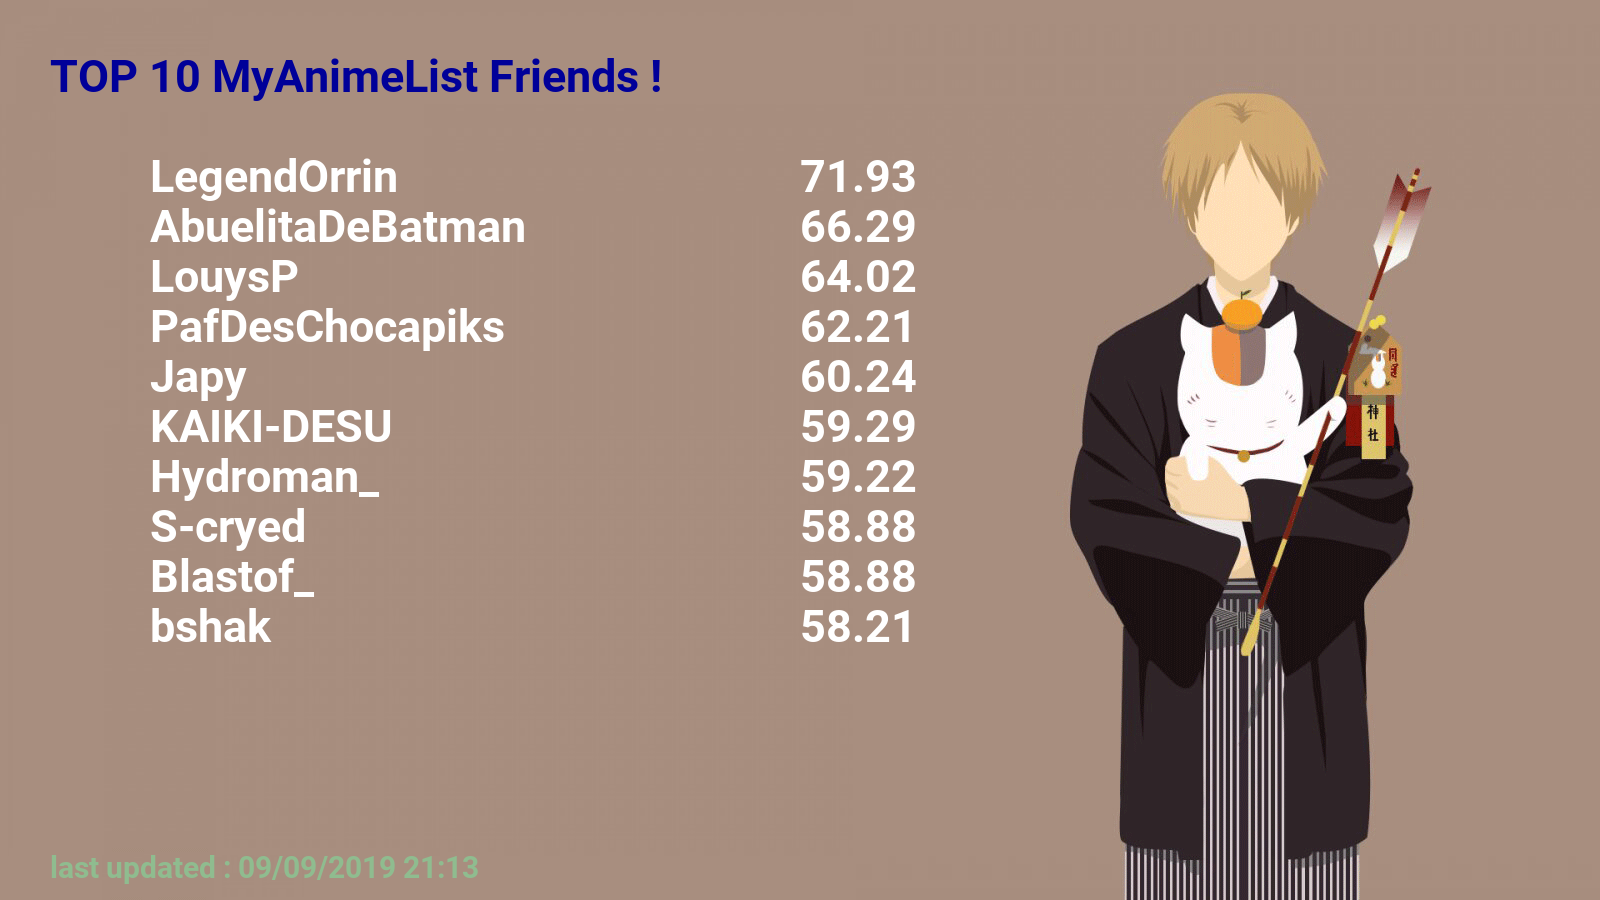
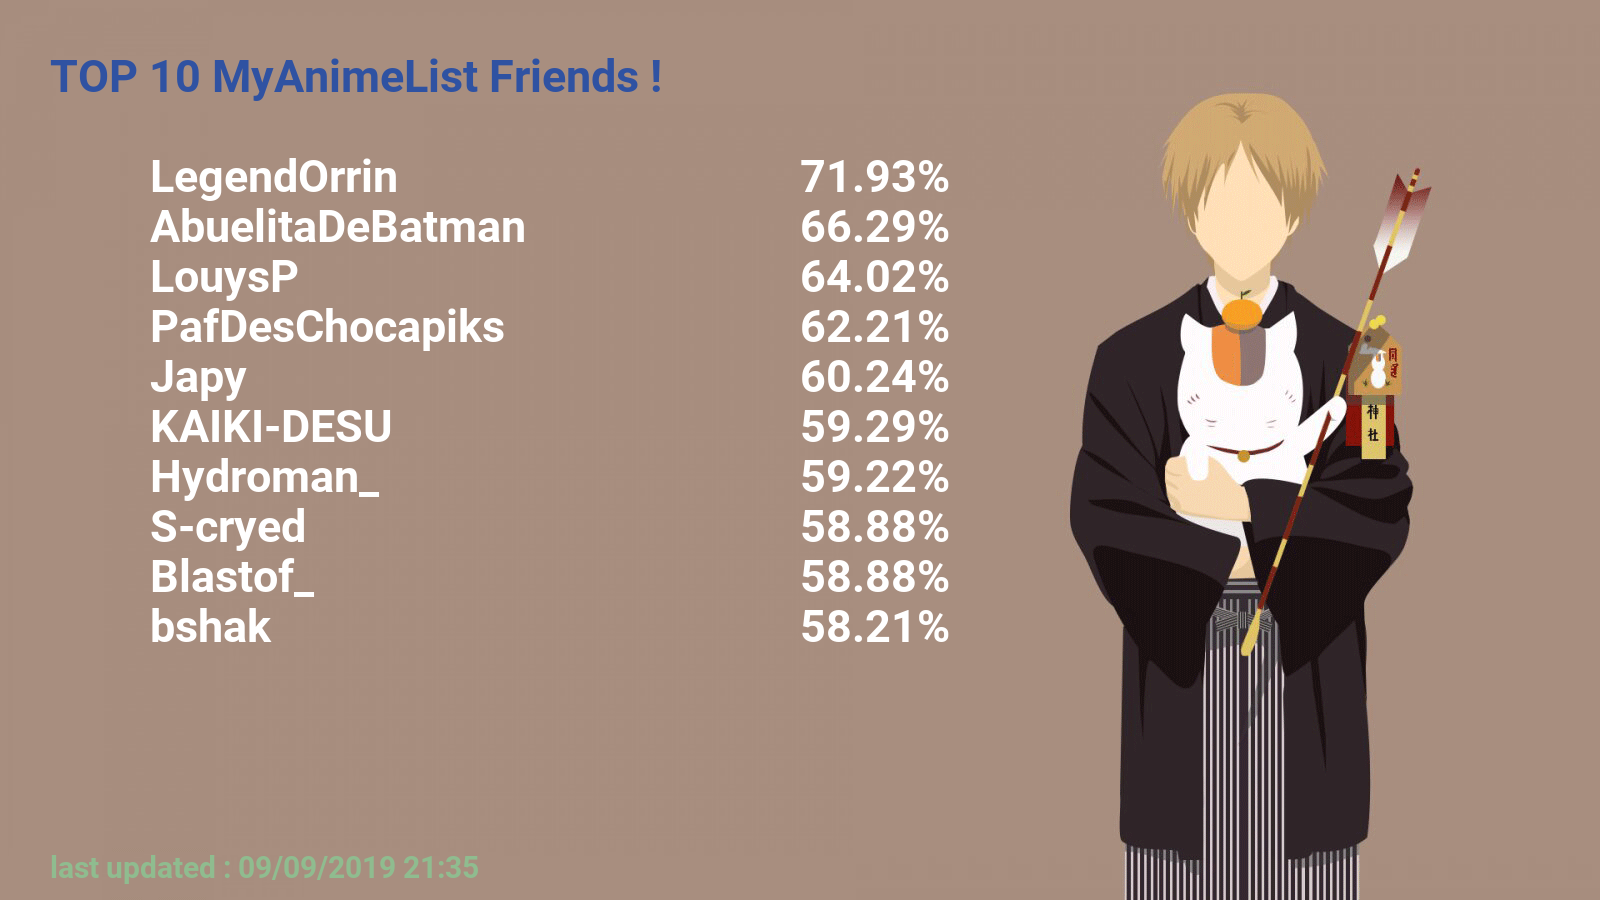
updates

diff --git a/mal-img-affinity.py b/mal-img-affinity.py
@@ -98,6 +98,15 @@ newresult = OrderedDict(sorted(results.items(), key=lambda t: t[1], reverse=True
 print(newresult)
 # print(tabulate([v for v in newresult.items()], headers=["Friend", "Affinity"]))
 #print(type(result))
+
+
+newresult = OrderedDict(sorted(results.items(), key=lambda t: t[1], reverse=True))
+
+#for key in range(11,len(ufriends["friends"])):
+#    del newresult[key]
+print(newresult)
+# print(tabulate([v for v in newresult.items()], headers=["Friend", "Affinity"]))
+#print(type(result))
 # create Image object with the input image
 image = Image.open('top-friends.png').convert('RGB')
 
@@ -116,7 +125,7 @@ updatefont = ImageFont.truetype('Roboto-Bold.ttf', size=30)
 
 (x, y) = (50, 50)
 message = "TOP 10 MyAnimeList Friends !"
-color = 'rgb(0, 0, 153)' # black color
+color = 'rgb(47,82,162)' # black color
 draw.text((x, y), message, fill=color, font=font)
 
 (x, y) = (50, 850)
@@ -127,25 +136,25 @@ draw.text((x, y), lasttime, fill=color, font=updatefont)
 # draw the message on the background
 
 name0 = str([v for v in newresult.items()][0][0])
-val0 = str([v for v in newresult.items()][0][1])
+val0 = str([v for v in newresult.items()][0][1])+"%"
 name1 = str([v for v in newresult.items()][1][0])
-val1 = str([v for v in newresult.items()][1][1])
+val1 = str([v for v in newresult.items()][1][1])+"%"
 name2 = str([v for v in newresult.items()][2][0])
-val2 = str([v for v in newresult.items()][2][1])
+val2 = str([v for v in newresult.items()][2][1])+"%"
 name3 = str([v for v in newresult.items()][3][0])
-val3 = str([v for v in newresult.items()][3][1])
+val3 = str([v for v in newresult.items()][3][1])+"%"
 name4 = str([v for v in newresult.items()][4][0])
-val4 = str([v for v in newresult.items()][4][1])
+val4 = str([v for v in newresult.items()][4][1])+"%"
 name5 = str([v for v in newresult.items()][5][0])
-val5 = str([v for v in newresult.items()][5][1])
+val5 = str([v for v in newresult.items()][5][1])+"%"
 name6 = str([v for v in newresult.items()][6][0])
-val6 = str([v for v in newresult.items()][6][1])
+val6 = str([v for v in newresult.items()][6][1])+"%"
 name7 = str([v for v in newresult.items()][7][0])
-val7 = str([v for v in newresult.items()][7][1])
+val7 = str([v for v in newresult.items()][7][1])+"%"
 name8 = str([v for v in newresult.items()][8][0])
-val8 = str([v for v in newresult.items()][8][1])
+val8 = str([v for v in newresult.items()][8][1])+"%"
 name9 = str([v for v in newresult.items()][9][0])
-val9 = str([v for v in newresult.items()][9][1])
+val9 = str([v for v in newresult.items()][9][1])+"%"
 
 color = 'rgb(255, 255, 255)' # white color
 (x, y) = (150, 150)
